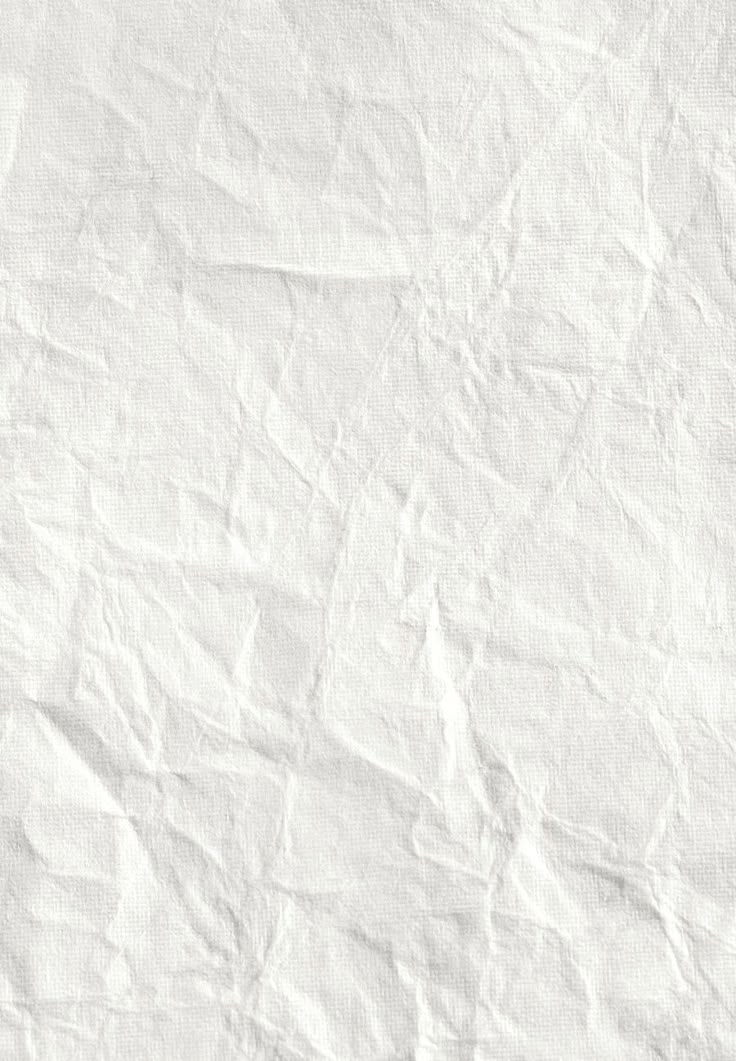
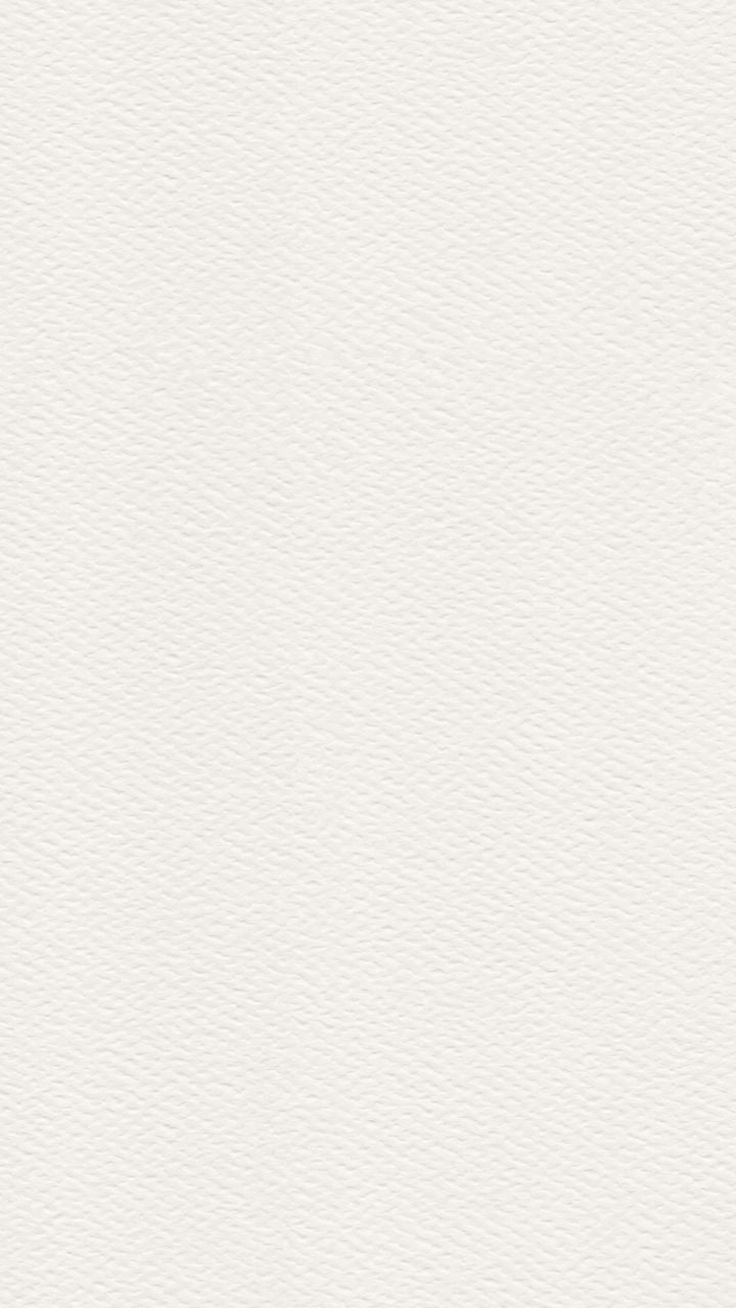
feat: dynamic form buttons generation

diff --git a/scripts/index.js b/scripts/index.js
@@ -81,6 +81,17 @@ document.getElementById("json-file").addEventListener ("change" ,(event) => {
                 }
             })
         }
+
+        if(data.buttons){
+            data.buttons.forEach(element => {
+                if(element.text){
+                    let button = document.createElement("button");
+                    button.textContent = element.text;
+                    form.appendChild(button);
+                }
+            })
+        }
+        
     }
     reader.readAsText(file);
 })

diff --git a/CSS/main.css b/CSS/main.css
@@ -10,7 +10,7 @@ body {
     justify-content: center;
     align-items: center;
     min-height: 100vh;
-    background-image: url(/img/background3.jpg);
+    background-image: url(/img/background.jpg);
     
     background-position: center;
 }
